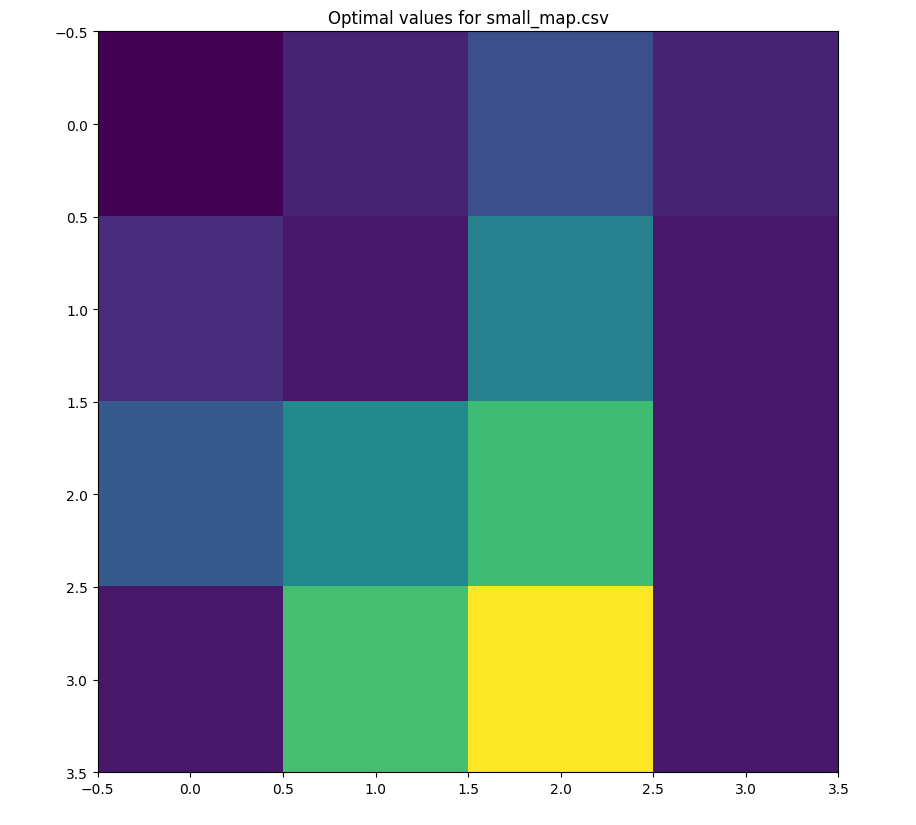
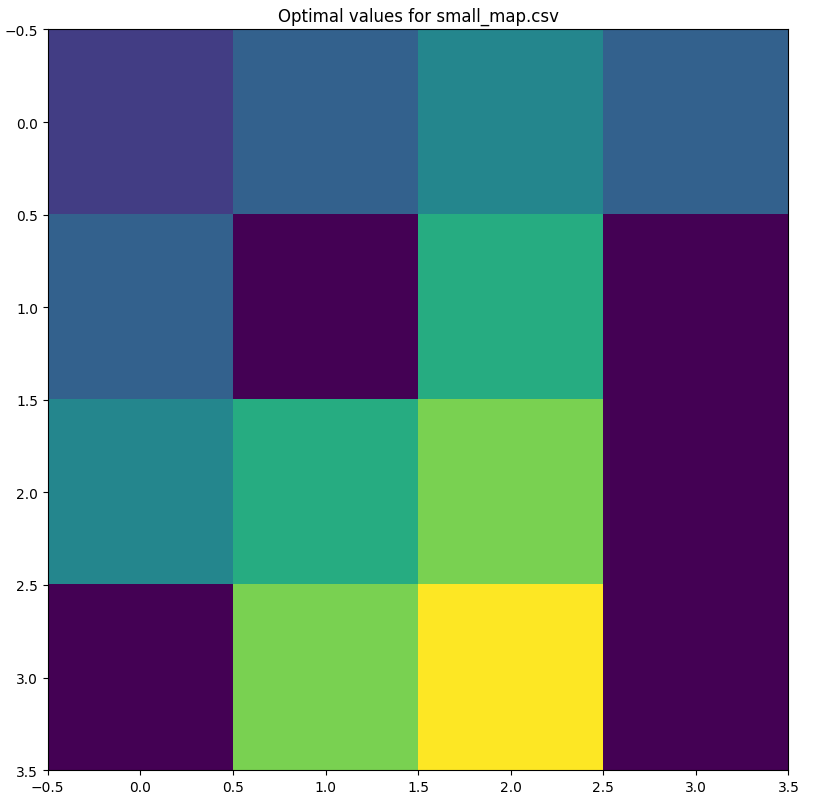
Update heatmaps

diff --git a/main.py b/main.py
@@ -363,7 +363,7 @@ class world:
         return False
 
 # Vanilla value iteration
-a = world(4, 0.8, -0.9, 0, 1, 0.9, "small_map.csv")
+a = world(4, 1, -0.9, 0, 1, 0.9, "small_map.csv")
 a.initialize_map()
 a.initialize_grid()
 a.initialize_new_grid()
